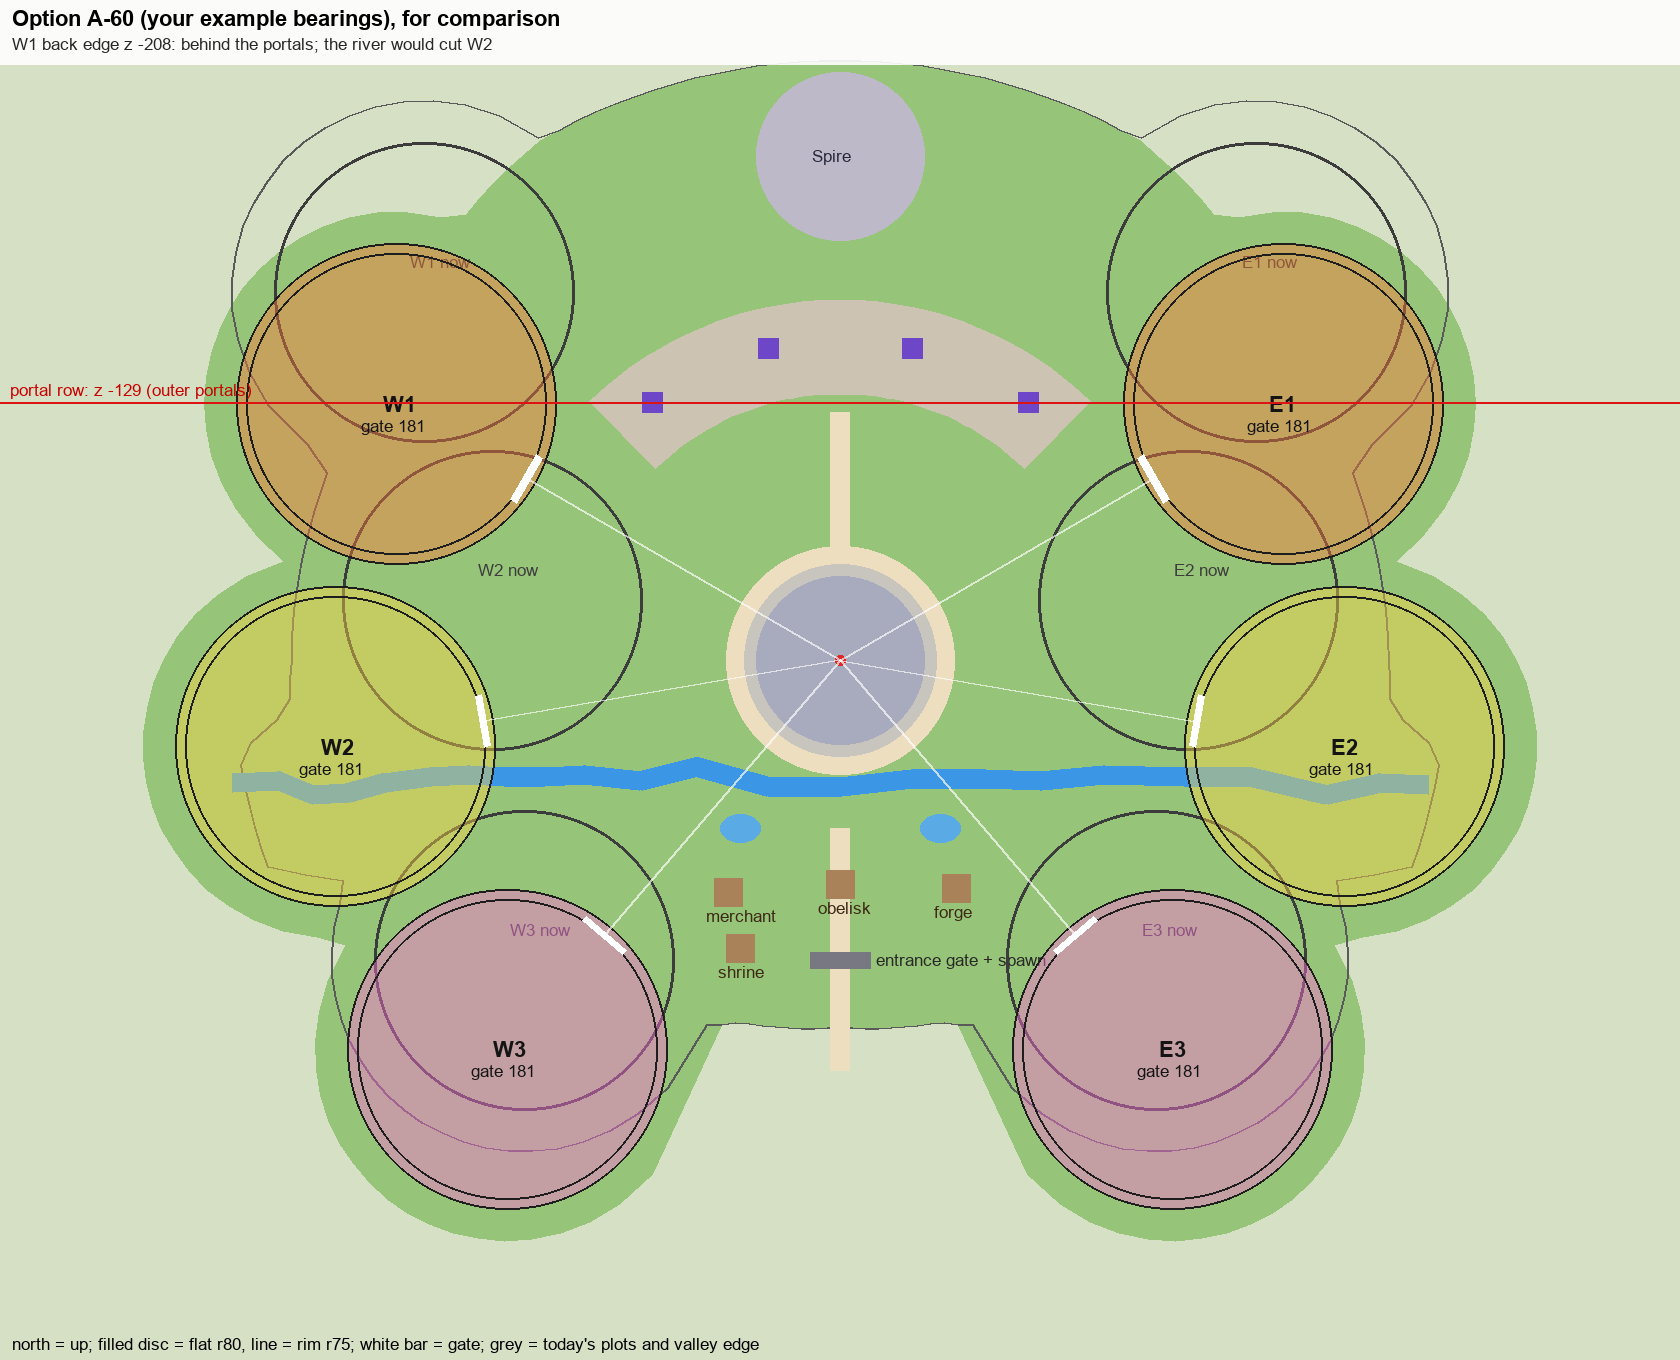
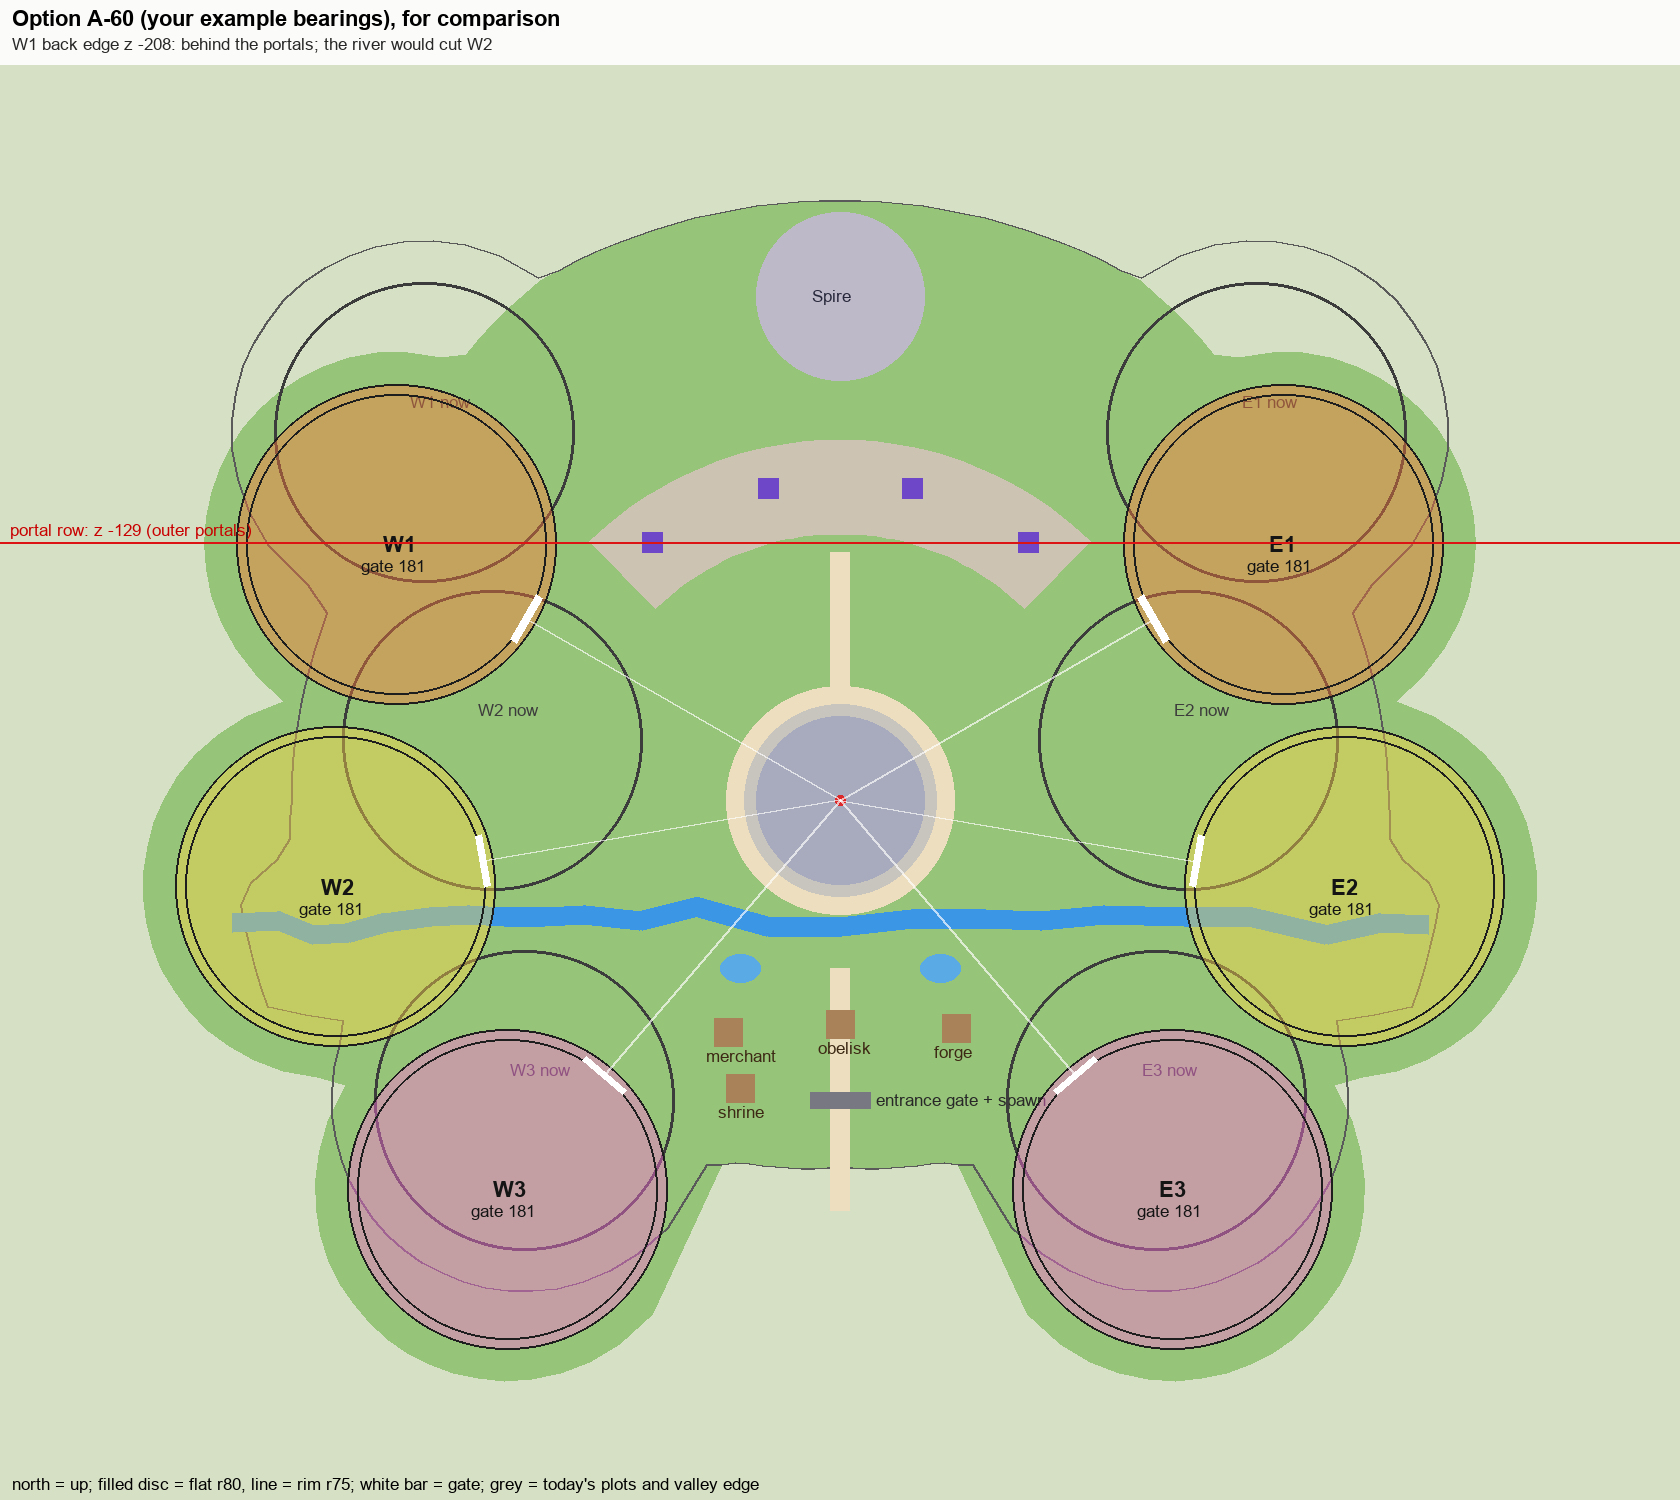
Option A-N mockup: horseshoe 50/90/130 with the portal terrace moved behind the sanctuaries

diff --git a/tools/valley_layout/mockup.py b/tools/valley_layout/mockup.py
@@ -6,7 +6,7 @@ from PIL import Image, ImageDraw, ImageFont
 
 OUT = os.path.join(os.path.dirname(os.path.abspath(__file__)), "..", "..", "docs", "img")
 S = 2.0  # px per stud
-X0, X1, Z0, Z1 = -420, 420, -330, 350
+X0, X1, Z0, Z1 = -420, 420, -400, 350
 W, H = int((X1 - X0) * S), int((Z1 - Z0) * S)
 
 
@@ -73,7 +73,7 @@ RIVER_CUR = [(-304, 61), (-281, 60), (-264, 67), (-246, 66), (-228, 61), (-205, 
 PORTALS = [(-94, -129), (-36, -156), (36, -156), (94, -129)]
 
 
-def draw(plots, title, subtitle, show_cur, river_new=None):
+def draw(plots, title, subtitle, show_cur, river_new=None, portals=None, terrace=None, rule_z=-129, rule_label="portal row: z -129 (outer portals)", roads=None, extra=None):
     img = Image.new("RGB", (W, H), (214, 224, 196))
     d = ImageDraw.Draw(img, "RGBA")
     o = outline(plots)
@@ -81,20 +81,33 @@ def draw(plots, title, subtitle, show_cur, river_new=None):
     if show_cur:
         oc = outline(CUR)
         d.line(oc + oc[:1], fill=(90, 90, 90, 255), width=2)
-    for pts in ([(0, 205), (0, 84)], [(0, -54), (0, -124)]):
+    for pts in (roads or ([(0, 205), (0, 84)], [(0, -54), (0, -124)])):
         d.line([P(*p) for p in pts], fill=(236, 222, 190, 255), width=int(10 * S))
     cx, cz = P(0, 0)
     for r, c in ((57, (236, 222, 190)), (48, (200, 196, 190)), (42, (168, 170, 190))):
         d.ellipse([cx - r * S, cz - r * S, cx + r * S, cz + r * S], fill=c + (255,))
     d.ellipse([cx - 5, cz - 5, cx + 5, cz + 5], fill=(220, 40, 40, 255))
-    ring = [P(180 * math.sin(math.radians(a)), -180 * math.cos(math.radians(a))) for a in range(-44, 45, 2)]
-    ring += [P(133 * math.sin(math.radians(a)), -133 * math.cos(math.radians(a))) for a in range(44, -45, -2)]
-    d.polygon(ring, fill=(205, 195, 178, 255))
+    if terrace is not None:
+        a0, b0 = P(-215, -330), P(215, -200)
+        d.ellipse([a0[0], a0[1], b0[0], b0[1]], fill=(150, 196, 120, 255))
+    if terrace is None:
+      ring = [P(180 * math.sin(math.radians(a)), -180 * math.cos(math.radians(a))) for a in range(-44, 45, 2)]
+      ring += [P(133 * math.sin(math.radians(a)), -133 * math.cos(math.radians(a))) for a in range(44, -45, -2)]
+      d.polygon(ring, fill=(205, 195, 178, 255))
+    else:
+      d.polygon([P(*q) for q in terrace], fill=(205, 195, 178, 255))
+      if show_cur:
+        old = [P(180 * math.sin(math.radians(a)), -180 * math.cos(math.radians(a))) for a in range(-44, 45, 2)] + [P(133 * math.sin(math.radians(a)), -133 * math.cos(math.radians(a))) for a in range(44, -45, -2)]
+        d.line(old + old[:1], fill=(120, 120, 120, 255), width=2)
     sx, sz = P(0, -252)
     d.ellipse([sx - 42 * S, sz - 42 * S, sx + 42 * S, sz + 42 * S], fill=(190, 185, 200, 255))
     d.text((sx - 28, sz - 10), "Spire", font=FS, fill=(40, 40, 60))
-    for (x, z) in PORTALS:
+    for (x, z) in (portals or PORTALS):
         px, pz = P(x, z)
+        if portals:
+            ln = math.hypot(x, z); ux, uz = -x / ln, -z / ln
+            qx, qz = P(x + ux * 24, z + uz * 24)
+            d.ellipse([qx - 22 * S, qz - 22 * S, qx + 22 * S, qz + 22 * S], fill=(150, 120, 220, 120))
         d.rectangle([px - 10, pz - 10, px + 10, pz + 10], fill=(110, 70, 200, 255))
     for (x, z, n) in ((-56, 116, "merchant"), (58, 114, "forge"), (-50, 144, "shrine"), (0, 112, "obelisk")):
         px, pz = P(x, z)
@@ -127,9 +140,11 @@ def draw(plots, title, subtitle, show_cur, river_new=None):
         d.line([P(0, 0), gp], fill=(255, 255, 255, 170), width=2)
         d.text((px - 14, pz - 12), n, font=FONT, fill=(20, 20, 20, 255))
         d.text((px - 36, pz + 12), "gate %d" % round(ln - 75), font=FS, fill=(20, 20, 20, 255))
-    zz = P(0, -129)[1]
+    zz = P(0, rule_z)[1]
     d.line([0, zz, W, zz], fill=(220, 20, 20, 255), width=2)
-    d.text((10, zz - 22), "portal row: z -129 (outer portals)", font=FS, fill=(200, 0, 0))
+    d.text((10, zz - 22), rule_label, font=FS, fill=(200, 0, 0))
+    if extra:
+        extra(d)
     d.rectangle([0, 0, W, 64], fill=(255, 255, 255, 230))
     d.text((12, 6), title, font=FONT, fill=(0, 0, 0))
     d.text((12, 34), subtitle, font=FS, fill=(40, 40, 40))
@@ -157,5 +172,22 @@ if __name__ == "__main__":
     river = [(-352, 52), (-310, 46), (-270, 40), (-238, 37), (-210, 40), (-185, 46), (-160, 53), (-130, 58), (-112, 61), (-100, 60), (-72, 53), (-36, 63), (0, 63), (36, 59), (72, 59), (100, 60), (112, 61), (130, 58), (160, 53), (185, 46), (210, 40), (238, 37), (270, 40), (310, 46), (352, 52)]
     draw(a79, "Option A-79: even horseshoe, nothing behind the portal row",
          "R 256, bearings 79 / 118.7 / 158.4, rim gap 24, gate distance 181 for all six; the river runs between W1 and W2", True, river).save(os.path.join(OUT, "valley_layout_adjusted_A79.png"))
+    an, stn = horseshoe(256, 50, 25)
+    report("A-N step %.1f" % stn, an)
+    PN = [(-150, -286), (-90, -262), (90, -262), (150, -286)]
+    terr = [(-140, -240), (-70, -214), (0, -206), (70, -214), (140, -240), (170, -310), (-170, -310)]
+    # river: in the W2/W3 gap (same topology as today), z ~ 82 at x -226, joins today's line at x -112
+    rn = [(-352, 128), (-300, 109), (-262, 95), (-226, 82), (-190, 68), (-160, 60), (-130, 58), (-112, 61), (-100, 60), (-72, 53), (-36, 63), (0, 63), (36, 59), (72, 59), (100, 60), (112, 61), (130, 58), (160, 60), (190, 68), (226, 82), (262, 95), (300, 109), (352, 128)]
+    def ex(dr):
+        sx, sz = P(0, -252)
+        dr.ellipse([sx - 70 * S, sz - 70 * S, sx + 70 * S, sz + 70 * S], outline=(90, 80, 110, 255), width=2)
+        a, b = P(0, -206), P(0, -57)
+        dr.text((a[0] - 90, a[1] + 14), "grand stairs", font=FS, fill=(40, 30, 30))
+        c = P(0, -196)
+        dr.polygon([(c[0], c[1] - 8), (c[0] - 8, c[1] + 6), (c[0] + 8, c[1] + 6)], fill=(0, 140, 0, 255))
+        dr.text((c[0] + 12, c[1] + 4), "AreaSpawn + Portals travel point", font=FS, fill=(0, 100, 0))
+    draw(an, "Option A-N: horseshoe 50 / 90 / 130, portal terrace moved behind the sanctuaries",
+         "R 256, gate 181 for all six, rim gap 25 (flat edges 15); portals flank the Spire's foot; river in the W2/W3 gap", True, rn, PN, terr, -245,
+         "W1/E1 back edge z -245 (portals at z -262 / -286 are behind it)", [(0, 205), (0, 84), (0, -57), (0, -206)] and [[(0, 205), (0, 84)], [(0, -57), (0, -206)]], ex).save(os.path.join(OUT, "valley_layout_adjusted_AN.png"))
     draw(a60, "Option A-60 (your example bearings), for comparison",
          "W1 back edge z -208: behind the portals; the river would cut W2", True, None).save(os.path.join(OUT, "valley_layout_adjusted_A60.png"))

diff --git a/docs/Valley_Layout_And_Grass_Proposal.md b/docs/Valley_Layout_And_Grass_Proposal.md
@@ -48,3 +48,26 @@ Images: `docs/img/valley_layout_adjusted_A79.png` (recommended) and `valley_layo
   W1/E1 (+-251, -49) back edge z -129 = level with the outer portals; W2/E2 (+-224, 123); W3/E3 (+-94, 238); the S pair leaves a 38-stud gap (rim to rim) for the entrance road.
 - **River:** runs in the W1/W2 gap (z ~37 at x -238) as a narrow stream, joins today's line at x ~ -112; side bridges (+-100, 60) now serve the W2/E2 roads; W1/E1 need no crossing.
 - **Costs:** valley wider by ~75 studs per side (to about +-350) and ~130 studs longer to the south (flat edge z 318); waterfall + ancient tree move ~50 out; market tents (shrine, merchant, forge) shift ~30 studs inward because the W3/E3 forecourts reach them; the old W1/E1 meadow behind the portal terrace becomes open ground.
+
+## 5. Option A-N (2026-10-02): even horseshoe + portal terrace moved north (mockup, not built)
+
+Image: `docs/img/valley_layout_adjusted_AN.png`. A-79 was rejected as too costly.
+
+- **Sanctuaries:** R 256, bearings 50 / 90 / 130: W1/E1 (+-196, -165), W2/E2 (+-256, 0), W3/E3 (+-196, 164); gate distance **181 for all six**; gaps 25 rim to rim (15 between flat edges); S pair 243 apart (entrance corridor wide open). W1/E1 hardly move (12 east, 19 south).
+- **Portals:** inner (+-90, -262), outer (+-150, -286), in unlock order west to east, each facing the altar, on a new terrace (top y 12) that wraps the Spire's south foot (front edge z -206 at the centre, -240 at the ends, themed ground disc in front of each gate). W1/E1 back edge z -245 is in front of the whole row (inner portals 17 behind it, outer 41 behind it); pads stay >= 13 studs clear of W1/E1.
+- **Spire:** stays at (0, -252); its hill slope gets steeper (foot radius ~70 instead of ~98) so the inner portals stand beside the foot. Spire court (0, -214) and entrance stay.
+- **River:** back in the W2/W3 gap (same topology as today); stream ~10 wide through a 15-stud gap between the terraces: (-352,128) -> (-262,95) -> (-226,82) -> (-190,68) -> joins today's line at (-112, 61); mirrored. Clear of every sanctuary by >= 7 studs. W1/E1 and W2/E2 need no crossing; the side bridges (+-100, 60) serve the W3/E3 roads as today.
+- **What moves:** portal terrace (retaining wall, walkway, themed discs, stairs) + 4 portal models with gate crystals; GrandStairs to the north-road end (0, -206), north road extended (0, -57) -> (0, -206); AreaSpawn (0, 13.5, -150) -> (0, 13.5, -196) facing the altar; TravelPoints `Portals` to the terrace front (0, -198) and the six sanctuary points; horizon landmarks / ridge saddles re-aimed to the new portal bearings (+-19 / +-28 degrees); all six plots, roads (straight spokes), bounds; the old terrace area (z -91..-180) becomes open meadow (north road avenue, lanterns, flowers).
+- **Does not move:** market (shrine / merchant / forge / ponds), entrance gate + spawn, plaza, altar.
+- **Valley edge (honest numbers from the edge code):** +64..78 studs at bearings 80-90 (W2/E2), +40 at 120-130 (W3/E3), south flanks +30, north corners +~55 for the outer portals; narrower (-24) behind W1/E1 at bearings 40-60. (Earlier "+35 per side" was too low.) Waterfall + ancient tree move ~60 studs (about (-48, +67)) to the new river lip.
+
+| | A-79 | A-N |
+| --- | --- | --- |
+| Valley sides | +75 | +65..78 |
+| Valley south | +105..165 at the south pair | +30 on the flanks |
+| Market / shrine / merchant / forge | move ~30 inward | stay |
+| Entrance | S pair 38 apart (crowded) | S pair 243 apart |
+| Portal terrace + stairs + Spire court | stay | **rebuilt** (new terrace, steeper hill, stairs, spawn, travel point) |
+| Waterfall + ancient tree | move ~50 | move ~60 |
+| Landmark / saddle re-aiming | no | yes (config) |
+| North | old W1/E1 meadow empty | W1/E1 stay about where they are, terrace behind them |
